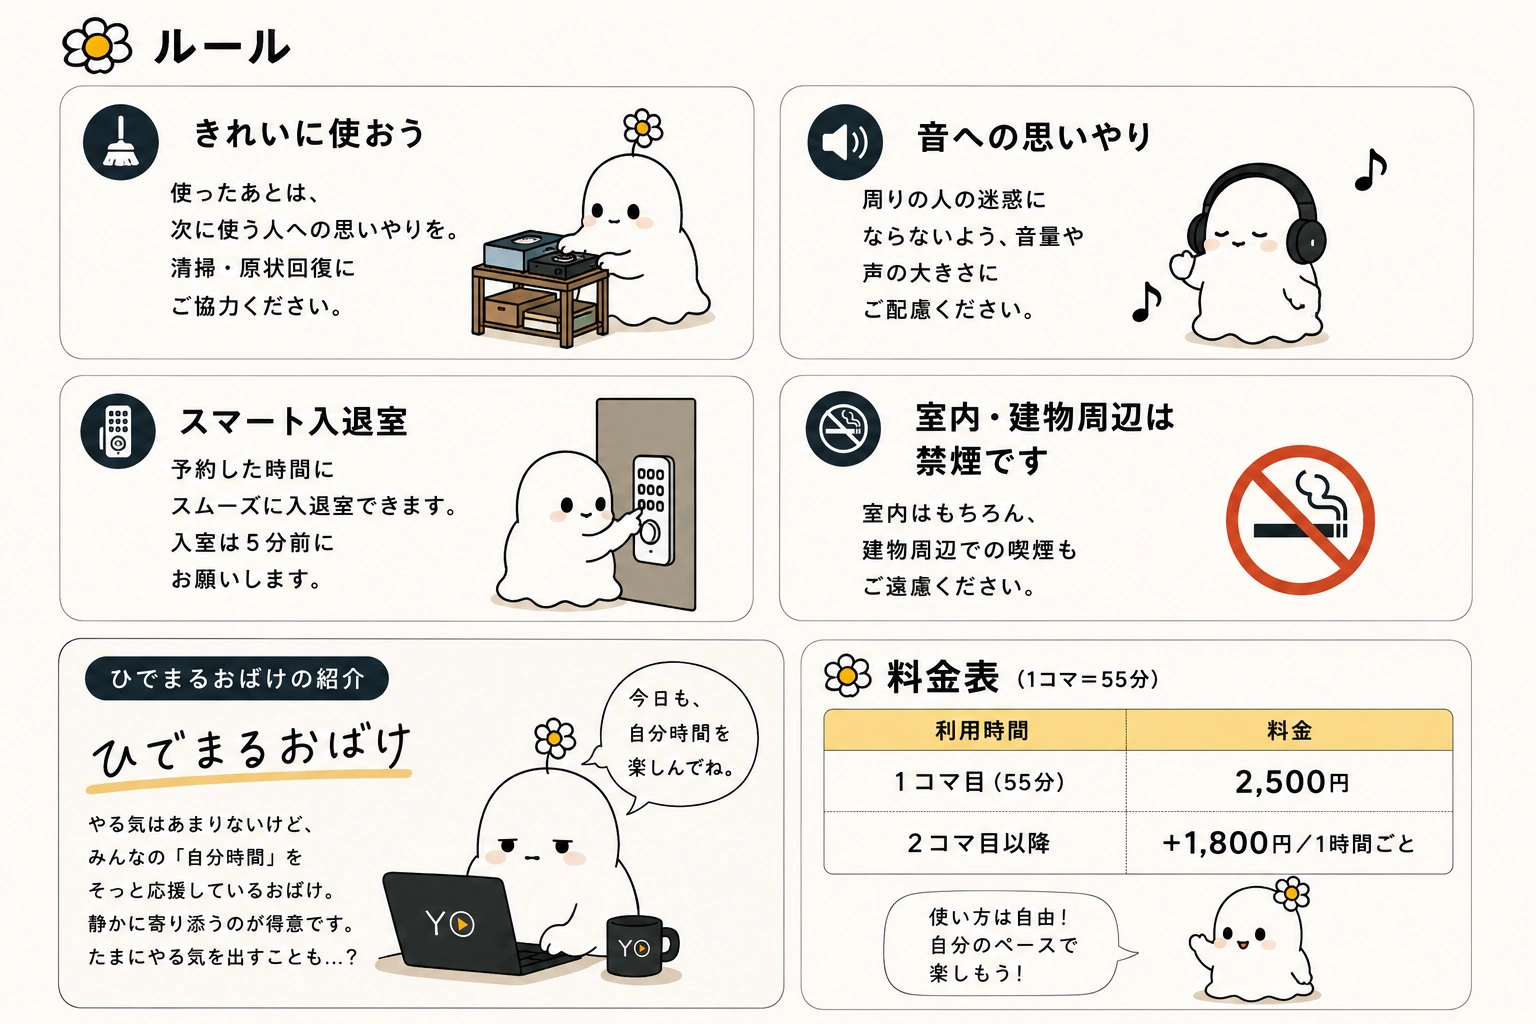
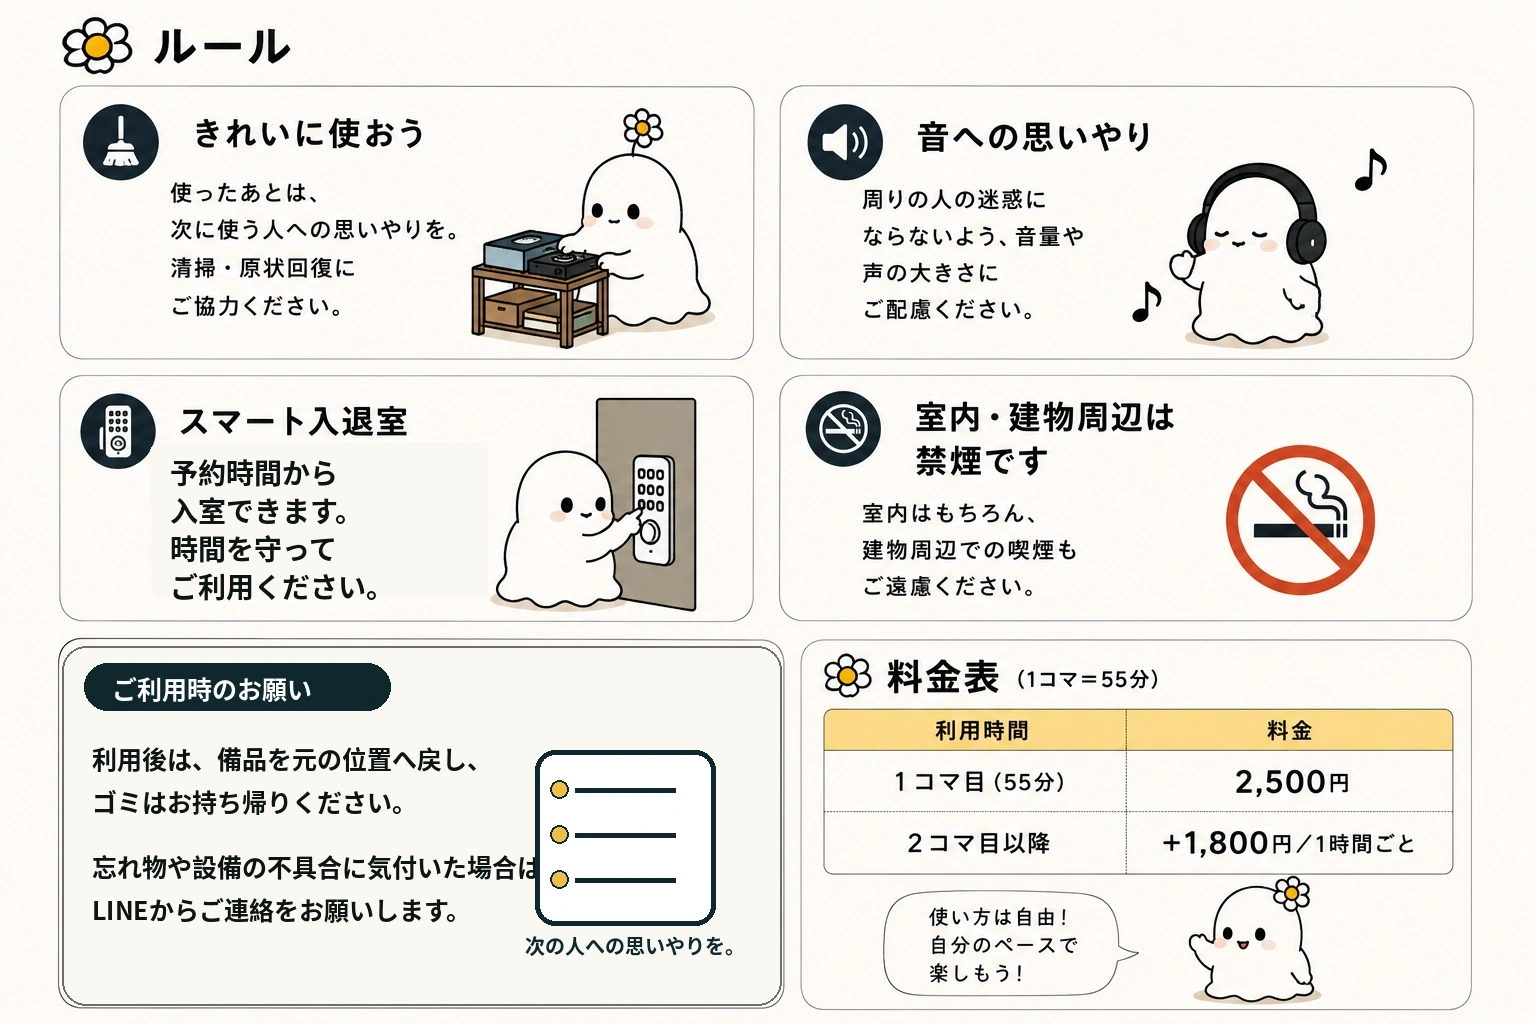
Add files via upload

Changed region(s): [[0.0312, 0.625, 0.5, 0.9688], [0.0938, 0.4375, 0.2812, 0.5938]]

diff --git a/style.css b/style.css
@@ -1,4 +1,4 @@
-@import url('https://fonts.googleapis.com/css2?family=Noto+Sans+JP:wght@400;600;800;900&display=swap');
+@import url('https://fonts.googleapis.com/css2?family=Noto+Sans+JP:wght@400;600;800;900&family=Yomogi&display=swap');
 :root{--cream:#f8f1e7;--soft:#eee3d3;--green:#123d2a;--ink:#12251b;--red:#de3c2b;--orange:#ef5b24;--line:#d8cbb8}
 *{box-sizing:border-box}html{scroll-behavior:smooth}body{margin:0;background:var(--cream);color:var(--ink);font-family:'Noto Sans JP',sans-serif;line-height:1.8;overflow-x:hidden}
 .site-header{position:sticky;top:0;z-index:50;min-height:82px;display:flex;align-items:center;gap:28px;padding:12px 4vw;background:rgba(248,241,231,.97);border-bottom:1px solid var(--line);backdrop-filter:blur(10px)}
@@ -79,7 +79,7 @@ footer{display:flex;justify-content:space-between;gap:20px;background:#071e15;co
 .equipment-grid article:nth-child(3) .equipment-art{color:#244c73}
 
 .story-title{
-  font-family:"Yuji Syuku","Klee One","Hiragino Maru Gothic ProN","Yu Gothic",sans-serif;
+  font-family:"Yomogi","Klee One","Yuji Syuku","Hiragino Maru Gothic ProN","Yu Gothic",sans-serif;
   font-size:clamp(28px,3.1vw,48px)!important;
   font-weight:600!important;
   letter-spacing:.045em;
@@ -93,7 +93,7 @@ footer{display:flex;justify-content:space-between;gap:20px;background:#071e15;co
   max-width:100%;
 }
 .handwritten-copy{
-  font-family:"Klee One","Yuji Syuku","Hiragino Maru Gothic ProN","Yu Gothic",sans-serif;
+  font-family:"Yomogi","Klee One","Yuji Syuku","Hiragino Maru Gothic ProN","Yu Gothic",sans-serif;
   font-size:17px;
   line-height:2.1;
   letter-spacing:.035em;
@@ -106,8 +106,14 @@ footer{display:flex;justify-content:space-between;gap:20px;background:#071e15;co
   transform:rotate(.2deg);
 }
 .handwritten-copy .quote{
-  font-family:'Noto Sans JP',sans-serif;
+  font-family:"Yomogi","Klee One","Yuji Syuku","Hiragino Maru Gothic ProN","Yu Gothic",sans-serif;
   transform:none;
+  font-size:clamp(21px,2.15vw,29px);
+  font-weight:400;
+  line-height:1.55;
+  letter-spacing:.02em;
+  white-space:nowrap;
+  padding-left:18px;
 }
 @media(max-width:1180px){
   .nav{
@@ -129,6 +135,7 @@ footer{display:flex;justify-content:space-between;gap:20px;background:#071e15;co
   .compact{display:none}
 }
 @media(max-width:820px){
+  .handwritten-copy .quote{white-space:normal;font-size:22px}
   .story-title{
     white-space:normal;
     width:auto;